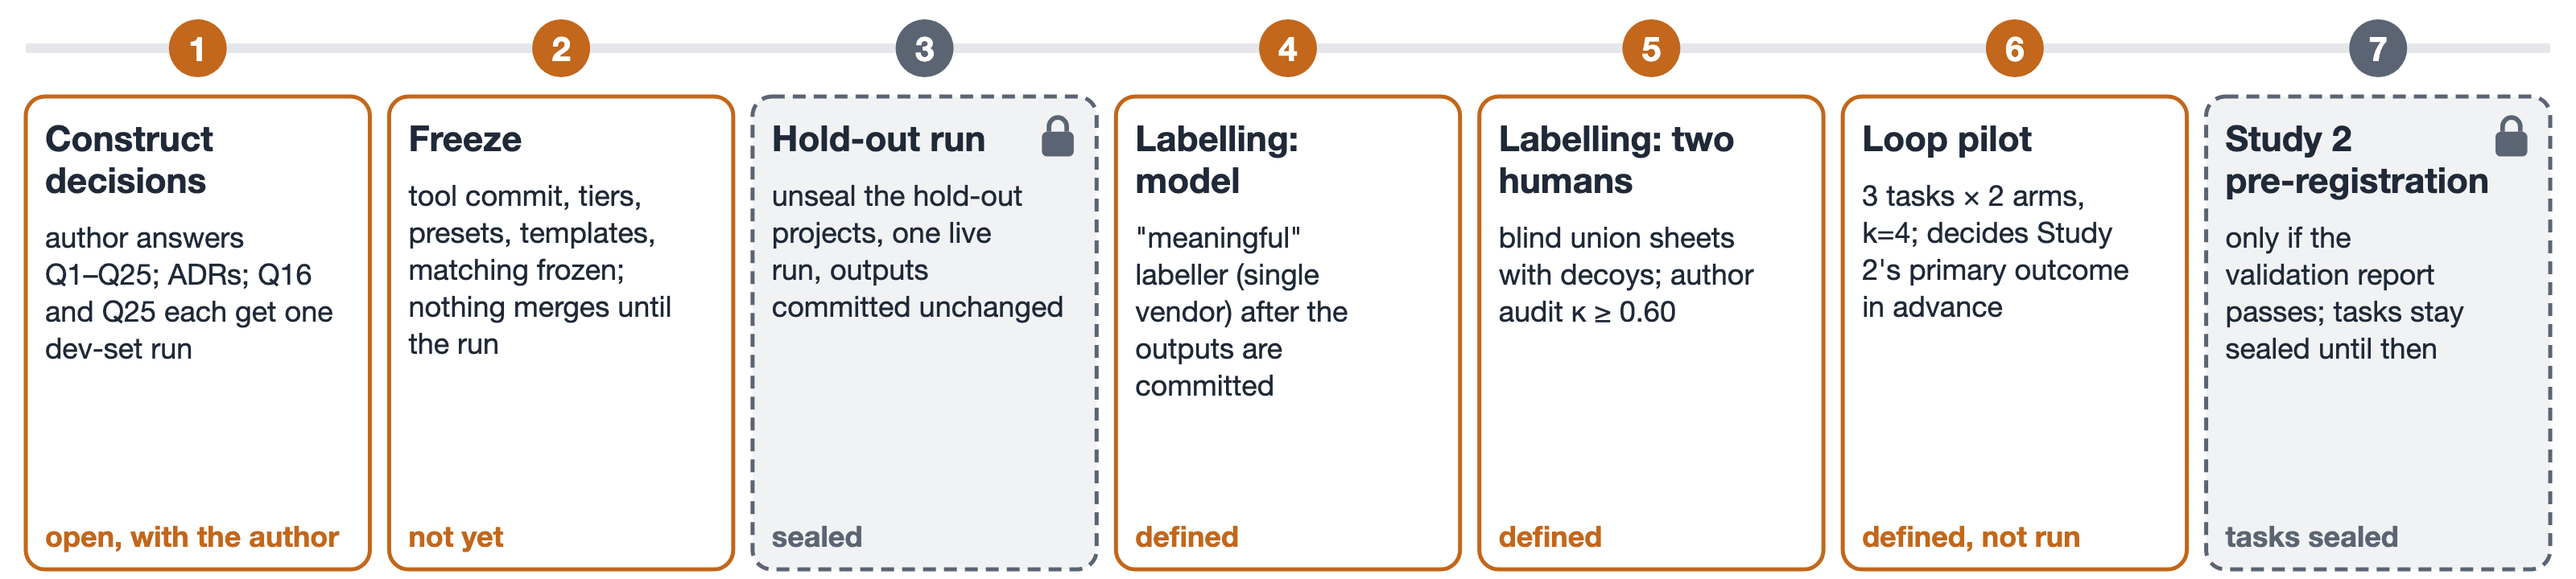
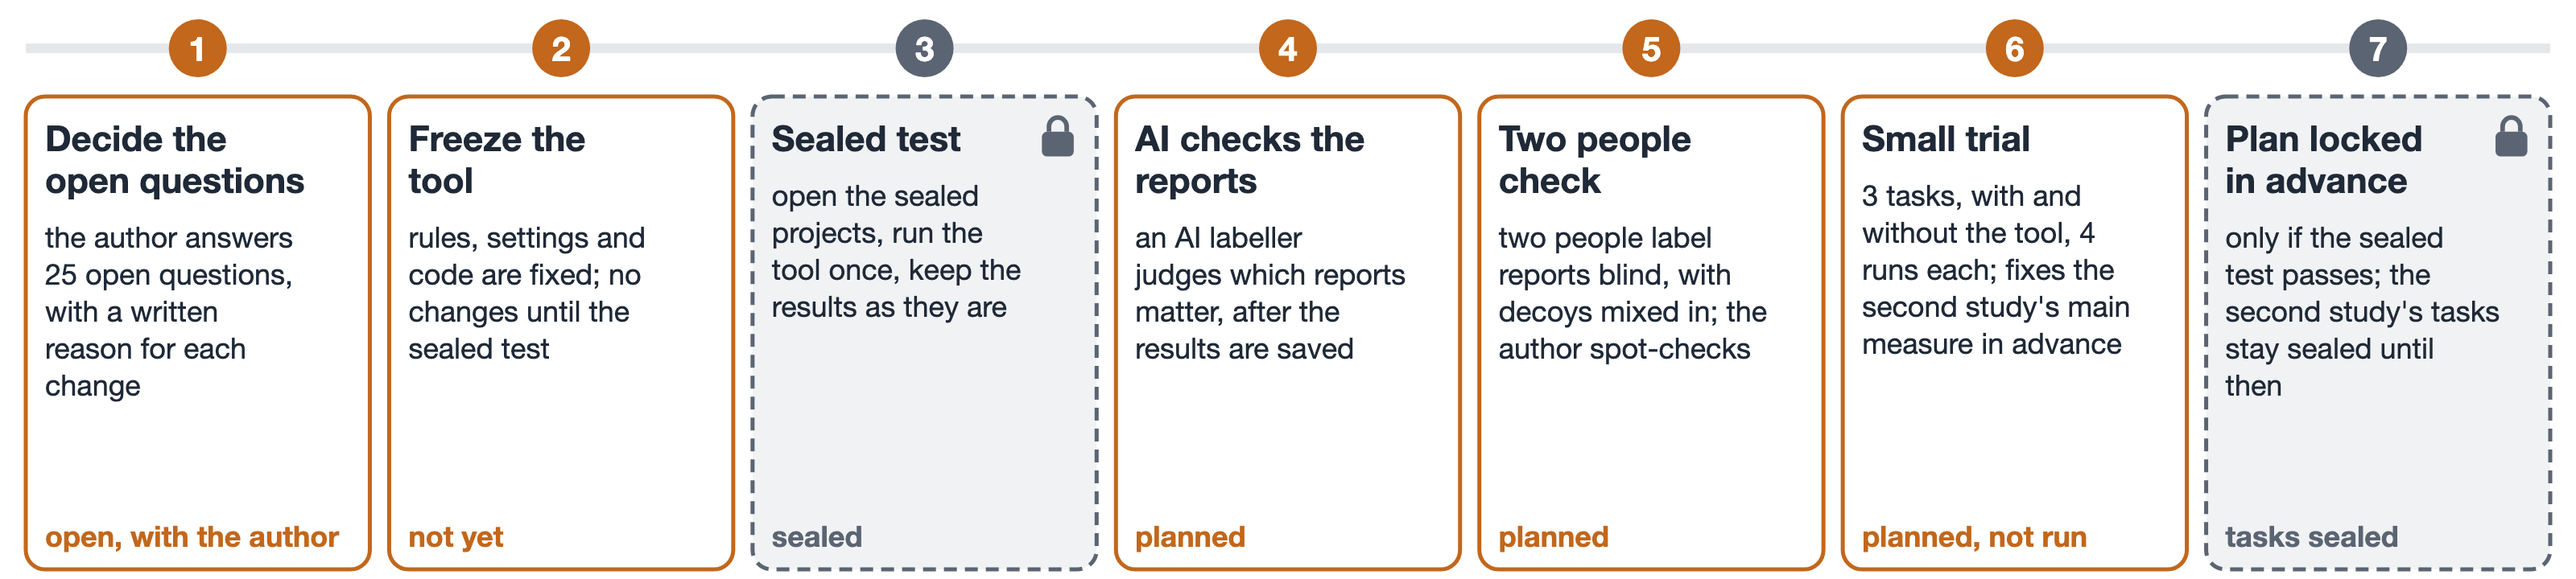
docs(kit): plain F8 timeline in plain words (same 1600x360 strip)
Claude-Session: https://claude.ai/code/session_01Qx8d6qJNxNQCgtW945ASm6

diff --git a/Docs/presentation-kit/figures-plain/F8-timeline.caption.md b/Docs/presentation-kit/figures-plain/F8-timeline.caption.md
@@ -1,16 +1,5 @@
-# F8 · timeline
+# F8 (plain) · what happens next
 
-**Title on slide:** What happens next, in order (the slide carries the title; the figure is a bare 1600 x 360 strip: plan, nothing here has run)
+**Slide claim.** The tool is tested on a sealed set before the second study is planned in detail; each step is fixed before the data it depends on exist.
 
-**What it shows.** The ordered steps after the development set: (1) the author's construct decisions, (2) the freeze of the tool, (3) the one-time hold-out run, (4) labelling by the model labeller, (5) labelling by two humans (blind union sheets), (6) the loop pilot, (7) the Study 2 pre-registration. Sealed items are drawn as locked, dashed boxes; nothing of their content is shown.
-
-**One idea.** Validation comes before Study 2, and each step is fixed before the data it depends on exist.
-
-**Sources.**
-- Construct decisions and their ADR: `Docs/v1.3/construct-decisions.md`, "After answering" (Q16 and Q25 need one development-set run before the hold-out).
-- Freeze and run once: `Docs/v1.3/holdout-prespec.md` §1 ("Nothing merges between X and the run"), §2.
-- Labelling only after the run, model then humans: same doc §7; `Docs/v1.3/labelling.md`; `Docs/v1.3/human-labelling-protocol.md` ("Status: defined; nothing labelled yet"; author audit κ ≥ 0.60: `Docs/v1.3/validation-protocol.md` §3).
-- Pilot: `Docs/v1.3/pilot-outcome-memo.md` ("defined; no pilot run has started"; 3 tasks × 2 arms, k = 4).
-- Study 2 pre-registration only after the validation report passes: `Docs/v1.3/study2-outline.md` §8; tasks sealed: `Docs/v1.3/validation-protocol.md` §4.
-
-**Note on order.** The order follows the coordinator's brief and the documents: the hold-out pre-specification places labelling after the run; the pilot memo is independent of the hold-out and could run earlier; the Study 2 pre-registration is last in every document. No hash values are shown.
+Same content and order as `figures/F8-timeline`, in plain words; same 1600 x 360 strip (card text 18-22 px). Sealed steps (3, 7) are drawn locked and dashed. Plain words: open questions = construct decisions; written reason = decision record; sealed test = hold-out run; plan locked in advance = Study 2 pre-registration.
